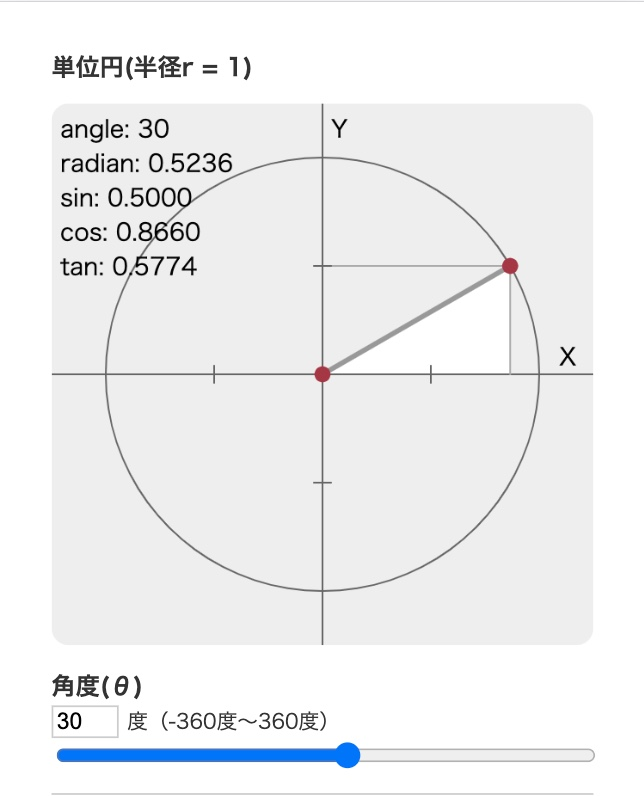
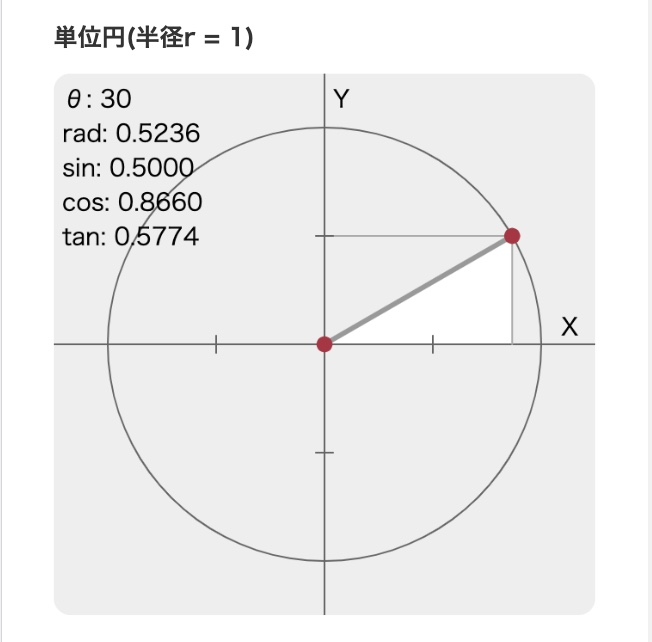
Aboutページに「単位円グラフ」を追加 #5

diff --git a/pages/about.tsx b/pages/about.tsx
@@ -65,14 +65,17 @@ function About() {
                 </section>
                 <section>
                     <h3>単位円グラフ</h3>
-                    <p>ページ上部に表示されているのは単位円グラフ（半径R = 1の円）です。</p>
-                    <figure><img src="img/sankaku_01.jpg" alt="単位円グラフ(30度)" /></figure>
-                    <p>左上のテキストは三角関数の主要な値です。小数は4桁までで四捨五入しています</p>
+                    <p>ページ上部に表示されているのは単位円グラフです。左上に三角関数の主要な値を表示しています（小数は4桁までで四捨五入）。
+                   </p>
+                    <figure><img src="img/sankaku_01.jpg" alt="単位円グラフ" /></figure>
+                    <p></p>
                     <ul>
-                        <li>angleは角度で初期値は30度です</li>
-                        <li>angleは角度で初期値は30度です</li>
-                        <li>angleは角度で初期値は30度です</li>
-                        <li>angleは角度で初期値は30度です</li>
+                        <li>単位円の半径r（直角三角形の斜辺）の長さは1です。</li>
+                        <li>θは度数法による角度で初期値は30度です</li>
+                        <li>radはラジアン（弧度法）による角度です</li>
+                        <li>sinはサインで、Y座標（直角三角形の高さ）です</li>
+                        <li>cosはコサインで、X座標（直角三角形の底辺）です</li>
+                        <li>tanはタンジェントで、Y座標とX座標の傾きです</li>
                     </ul>
                 </section>
                 <section>

diff --git a/README.md b/README.md
@@ -8,9 +8,7 @@
 
 ## 進捗（コミット）
 
-- 単位円グラフのテキストを修正(書式統一) [#4](https://github.com/ryo-i/sankaku-kansu-shirabe-math/issues/4)
-- Aboutページに用途を追加 [#5](https://github.com/ryo-i/sankaku-kansu-shirabe-math/issues/5)
-- 参考資料を追記中 [#1](https://github.com/ryo-i/sankaku-kansu-shirabe-math/issues/1)
+- Aboutページに「単位円グラフ」を追加 [#5](https://github.com/ryo-i/sankaku-kansu-shirabe-math/issues/5)
 
 ## 詳細（ブログ）
 
